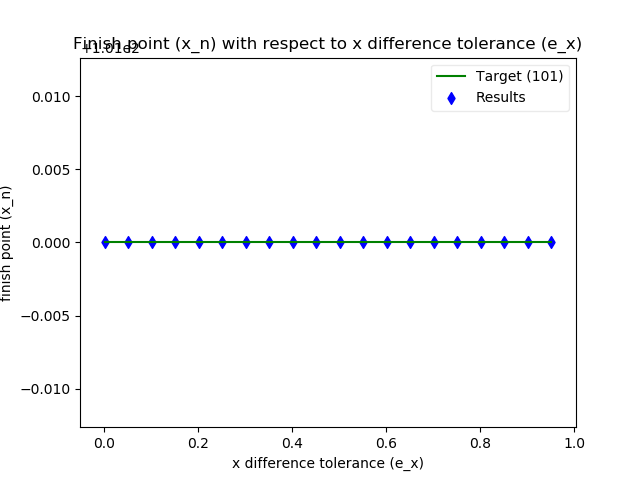
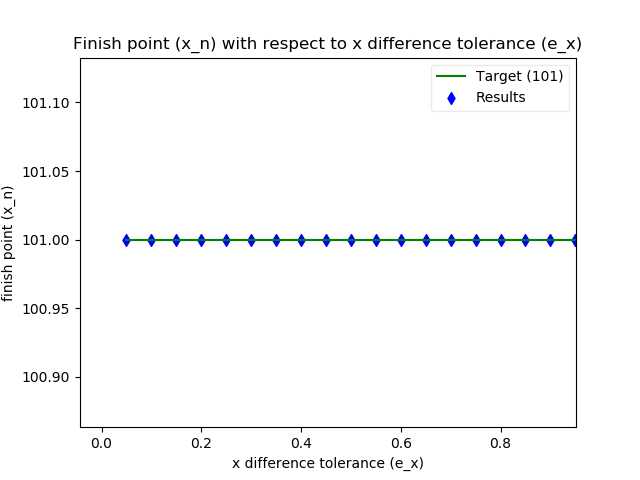
Fixed scale in GD graph, made some new md files for output PDFs for final submission. Setup css for md->PDF converter extension.

diff --git a/markdown-pdf.css b/markdown-pdf.css
@@ -1,0 +1,11 @@
+img {
+  width: 400px;
+  height: 300px;
+  display: block;
+  margin: auto;
+}
+
+.default_img_res {
+  width: unset;
+  height: unset;
+}

diff --git a/ReportAll.md b/ReportAll.md
@@ -1,24 +1,40 @@
-# Gradient Descent
+# Technical report
 
-_Source code: [notebook](./gradientDescent.ipynb) or [python script](./gradientDescent.py)_
+If this is hard to follow, use the `README.pdf` instead; as this seperates each problem and metaheuristic using links.
+
+## Problem 1
+
+### Abstract
+
+<img class="default_img_res" src="./problem1/problemFunction.png?raw=true"/>
+
+I defined this in the [problem_function](./modules/problem_function.py) module which I import in all my metaheuristics code.
+
+It plots this graph:
+
+![f(x)](./problem1/simulatedAnnealing/f.png?raw=true "f(x)")
+
+Where there is a local minimum (a very shallow one on this scale) at `x = 0` and a global minimum at `x = 101`; so the best solution is 101.
+
+I find both of these minima when testing each of the metaheuristics. I have written the code to each metaheuristic and put it into the `metaheuristics` python module.
+
+<hr />
+
+## Solving problem 1 with Gradient Descent
+
+_Source code: [notebook](./problem1/gradientDescent/gradientDescent.ipynb) or [python script](./problem1/gradientDescent/gradientDescent.py)_
 
 Gradient descent is deterministic so doesn't need to be run more than once for the same parameters, because its going to yield the same results.
 
-## Abstract
-
-I have made a generalised `gradient_descent` function in the [metaheuristics module](../../modules/metaheuristics.py) which can take in many parameters.
-
-I found that the 2 minima picked up by gradient descent were at 0 and 101, 101 is the best solution since `f(101) < f(0)`.
+I have made a generalised `gradient_descent` function in the [metaheuristics module](./modules/metaheuristics.py).
 
 ### Default gradient descent
 
-With the [default](./gradientDescent.py#L136) starting parameters, you get this:
+With the [default](./problem1/gradientDescent/gradientDescent.py#L136) starting parameters, you get this:
 
-![GD (against line)](./default_gd_against_line.png?raw=true "GD (against line)")
+![GD (against line)](./problem1/gradientDescent/default_gd_against_line.png?raw=true "GD (against line)")
 
 When the algorithm starts it uses the derivative to find the gradient and follows the slope downward, until one of the tolerances (`e_g` gradient or `e_x` difference in x) are satisfied or the maximum iterations is reached.
-
-<div class="page"/>
 
 ### Algorithm by hand (first few iterations)
 
@@ -44,11 +60,9 @@ _See the notebook, for output of all of the iterations._
 
 When testing how the starting point affects the gradient descent on this particular function it becomes apparent that gradent descent only works well from a particular set of start positions.
 
-![results_against_x0](./results_against_x0.png?raw=true "Results against start point")
+![results_against_x0](./problem1/gradientDescent/results_against_x0.png?raw=true "Results against start point")
 
 Below the value of the global minima the curve is very flat and has little gradient, so the algorithm has tiny steps and doesn't move very far (from where it starts) in the amount of iterations it has. But between 101 and 120 the algorithm consistently finds the global minimum at 101.
-
-<div class="page"/>
 
 ### Step multiplier
 
@@ -58,21 +72,19 @@ Again doing 3 tests at x0 = 80, x0 = 101 and x0 = 120; this time I varied the st
 
 #### x0 = 80
 
-![results_against_stepm_x0_80](./results_against_stepm_x0_80.png?raw=true "Results against step multiplier (starting at x = 80)")
+![results_against_stepm_x0_80](./problem1/gradientDescent/results_against_stepm_x0_80.png?raw=true "Results against step multiplier (starting at x = 80)")
 
 Here the gradient is so small that the amount taken off of x each step is negligible; so the step multiplier has little effect, and the result is approximately `x0`.
 
 #### x0 = 101
 
-![results_against_stepm_x0_101](./results_against_stepm_x0_101.png?raw=true "Results against step multiplier (starting at x = 101)")
+![results_against_stepm_x0_101](./problem1/gradientDescent/results_against_stepm_x0_101.png?raw=true "Results against step multiplier (starting at x = 101)")
 
 Here it seems that the stopcondition gets triggered immediently so the step multiplier doesn't have any effect, and the result is `x0`.
 
-<div class="page"/>
-
 #### x0 = 120
 
-![results_against_stepm_x0_120](./results_against_stepm_x0_120.png?raw=true "Results against step multiplier (starting at x = 120)")
+![results_against_stepm_x0_120](./problem1/gradientDescent/results_against_stepm_x0_120.png?raw=true "Results against step multiplier (starting at x = 120)")
 
 Here there is a steep gradient so a smaller step multiplier is preferred over a larger one (`step_m < 0.6`) otherwise gradient descent overshoots the global minimum and carries on towards the local minimum.
 
@@ -82,25 +94,21 @@ Doing tests at x0 = 80, x0 = 101 and x0 = 120; the difference tolerance was vari
 
 #### x0 = 80
 
-![results_against_ex_x0_80](./results_against_ex_x0_80.png?raw=true "Results against difference tolerance (starting at x = 80)")
+![results_against_ex_x0_80](./problem1/gradientDescent/results_against_ex_x0_80.png?raw=true "Results against difference tolerance (starting at x = 80)")
 
 Again, (with the step multiplier only being 0.1) the difference at this shallow gradient was very small so the tolerance between this range was pretty much satisfied straight away.
 
-<div class="page"/>
-
 #### x0 = 101
 
-![results_against_ex_x0_101](./results_against_ex_x0_101.png?raw=true "Results against difference tolerance (starting at x = 101)")
+![results_against_ex_x0_101](./problem1/gradientDescent/results_against_ex_x0_101.png?raw=true "Results against difference tolerance (starting at x = 101)")
 
 Similar to the last one, the difference tolerance was satisfied straight away (because of the small gradient) with the algorithm starting at a minimum.
 
 #### x0 = 120
 
-![results_against_ex_x0_120](./results_against_ex_x0_120.png?raw=true "Results against difference tolerance (starting at x = 120)")
+![results_against_ex_x0_120](./problem1/gradientDescent/results_against_ex_x0_120.png?raw=true "Results against difference tolerance (starting at x = 120)")
 
 Because this part of the curve is much more steep, we actually get some movement from the GD algorithm. The correlation favours smaller values of tolerance for getting closer to the minimum.
-
-<div class="page"/>
 
 ### Gradient tolerance (e_g)
 
@@ -110,17 +118,15 @@ The results were very similar to difference tolerance, however gradient toleranc
 
 #### x0 = 80
 
-![results_against_eg_x0_80](./results_against_eg_x0_80.png?raw=true "Results against gradient tolerance (starting at x = 80)")
+![results_against_eg_x0_80](./problem1/gradientDescent/results_against_eg_x0_80.png?raw=true "Results against gradient tolerance (starting at x = 80)")
 
 #### x0 = 101
 
-![results_against_eg_x0_101](./results_against_eg_x0_101.png?raw=true "Results against gradient tolerance (starting at x = 101)")
-
-<div class="page"/>
+![results_against_eg_x0_101](./problem1/gradientDescent/results_against_eg_x0_101.png?raw=true "Results against gradient tolerance (starting at x = 101)")
 
 #### x0 = 120
 
-![results_against_eg_x0_120](./results_against_eg_x0_120.png?raw=true "Results against gradient tolerance (starting at x = 120)")
+![results_against_eg_x0_120](./problem1/gradientDescent/results_against_eg_x0_120.png?raw=true "Results against gradient tolerance (starting at x = 120)")
 
 ### Maximum iterations
 
@@ -128,21 +134,19 @@ The maximum iterations value limits how many times the GD algorithm can run when
 
 #### x0 = 80
 
-![results_against_iterations_x0_80](./results_against_iterations_x0_80.png?raw=true "Results against max iterations (starting at x = 80)")
+![results_against_iterations_x0_80](./problem1/gradientDescent/results_against_iterations_x0_80.png?raw=true "Results against max iterations (starting at x = 80)")
 
 As the tolerances are met straight away, iterations doesn't affect the GD at this start point on the curve.
 
-<div class="page"/>
-
 #### x0 = 101
 
-![results_against_iterations_x0_101](./results_against_iterations_x0_101.png?raw=true "Results against max iterations (starting at x = 101)")
+![results_against_iterations_x0_101](./problem1/gradientDescent/results_against_iterations_x0_101.png?raw=true "Results against max iterations (starting at x = 101)")
 
 As the tolerances are met straight away, iterations doesn't affect the GD at this start point on the curve.
 
 #### x0 = 120
 
-![results_against_iterations_x0_120](./results_against_iterations_x0_120.png?raw=true "Results against max iterations (starting at x = 120)")
+![results_against_iterations_x0_120](./problem1/gradientDescent/results_against_iterations_x0_120.png?raw=true "Results against max iterations (starting at x = 120)")
 
 The larger the maximum iterations the closer the result is to finding a satisfying the tolerance stop conditions, and getting a good final result.
 

diff --git a/ReportLinked.md b/ReportLinked.md
@@ -1,0 +1,75 @@
+# Technical report
+
+## Problem 1
+
+### Abstract
+
+![Problem function](./problem1/problemFunction.png?raw=true "Problem function")
+
+I defined this in the [problem_function](./modules/problem_function.py) module which I import in all my metaheuristics code.
+
+It plots this graph:
+
+![f(x)](./problem1/simulatedAnnealing/f.png?raw=true "f(x)")
+
+Where there is a local minimum (a very shallow one on this scale) at `x = 0` and a global minimum at `x = 101`; so the best solution is 101.
+
+I find both of these minima when testing each of the metaheuristics. I have written the code to each metaheuristic and put it into the `metaheuristics` python module.
+
+<div class="page"/>
+
+### Solving the problem
+
+The metaheuristics used were the following:
+
+#### [Gradient Descent](./problem1/gradientDescent/gradientDescent.pdf)
+
+#### [Simulated Annealing](./problem1/simulatedAnnealing/simulatedAnnealing.pdf)
+
+#### [Taboo Search](./problem1/tabooSearch/tabooSearch.pdf)
+
+#### [Genetic Algorithm](./problem1/geneticAlgorithm/geneticAlgorithm.pdf)
+
+## Problem 2
+
+### Summary
+
+In a cloth factory there are 4 types of cloth to produce (A, B, C and D), producing a type of cloth requires a combination of different amounts of coloured wool and there is a finite amount of each wool.
+
+| Wool colour | A   | B   | C   | D   | Wool available |
+| ----------- | --- | --- | --- | --- | -------------- |
+| Green       | 1   | 2   | 1   | 1   | 10             |
+| Red         | 2   | 1   | 2   | 1   | 6              |
+| Blue        | 3   | 1   | 0   | 0   | 10             |
+| Yellow      | 1   | 4   | 0   | 0   | 18             |
+| Brown       | 0   | 0   | 1   | 3   | 8              |
+| Purple      | 0   | 0   | 3   | 3   | 12             |
+
+The different cloths yield different amounts of profit
+
+| Cloth | Profit |
+| ----- | ------ |
+| A     | 3      |
+| B     | 5      |
+| C     | 4      |
+| D     | 1      |
+
+<div class="page"/>
+
+These can be modelled into the following Linear Programming model:
+
+![Linear Programming Model](./problem2/model.png?raw=true "Linear programming model")
+
+The best solution I've found is
+
+### Solving the problem
+
+The metaheuristics used were the following:
+
+#### [Gradient Descent](./problem2/gradientDescent/gradientDescent.pdf)
+
+#### [Simulated Annealing](./problem2/simulatedAnnealing/simulatedAnnealing.pdf)
+
+#### [Taboo Search](./problem2/tabooSearch/tabooSearch.pdf)
+
+#### [Genetic Algorithm](./problem2/geneticAlgorithm/geneticAlgorithm.pdf)
